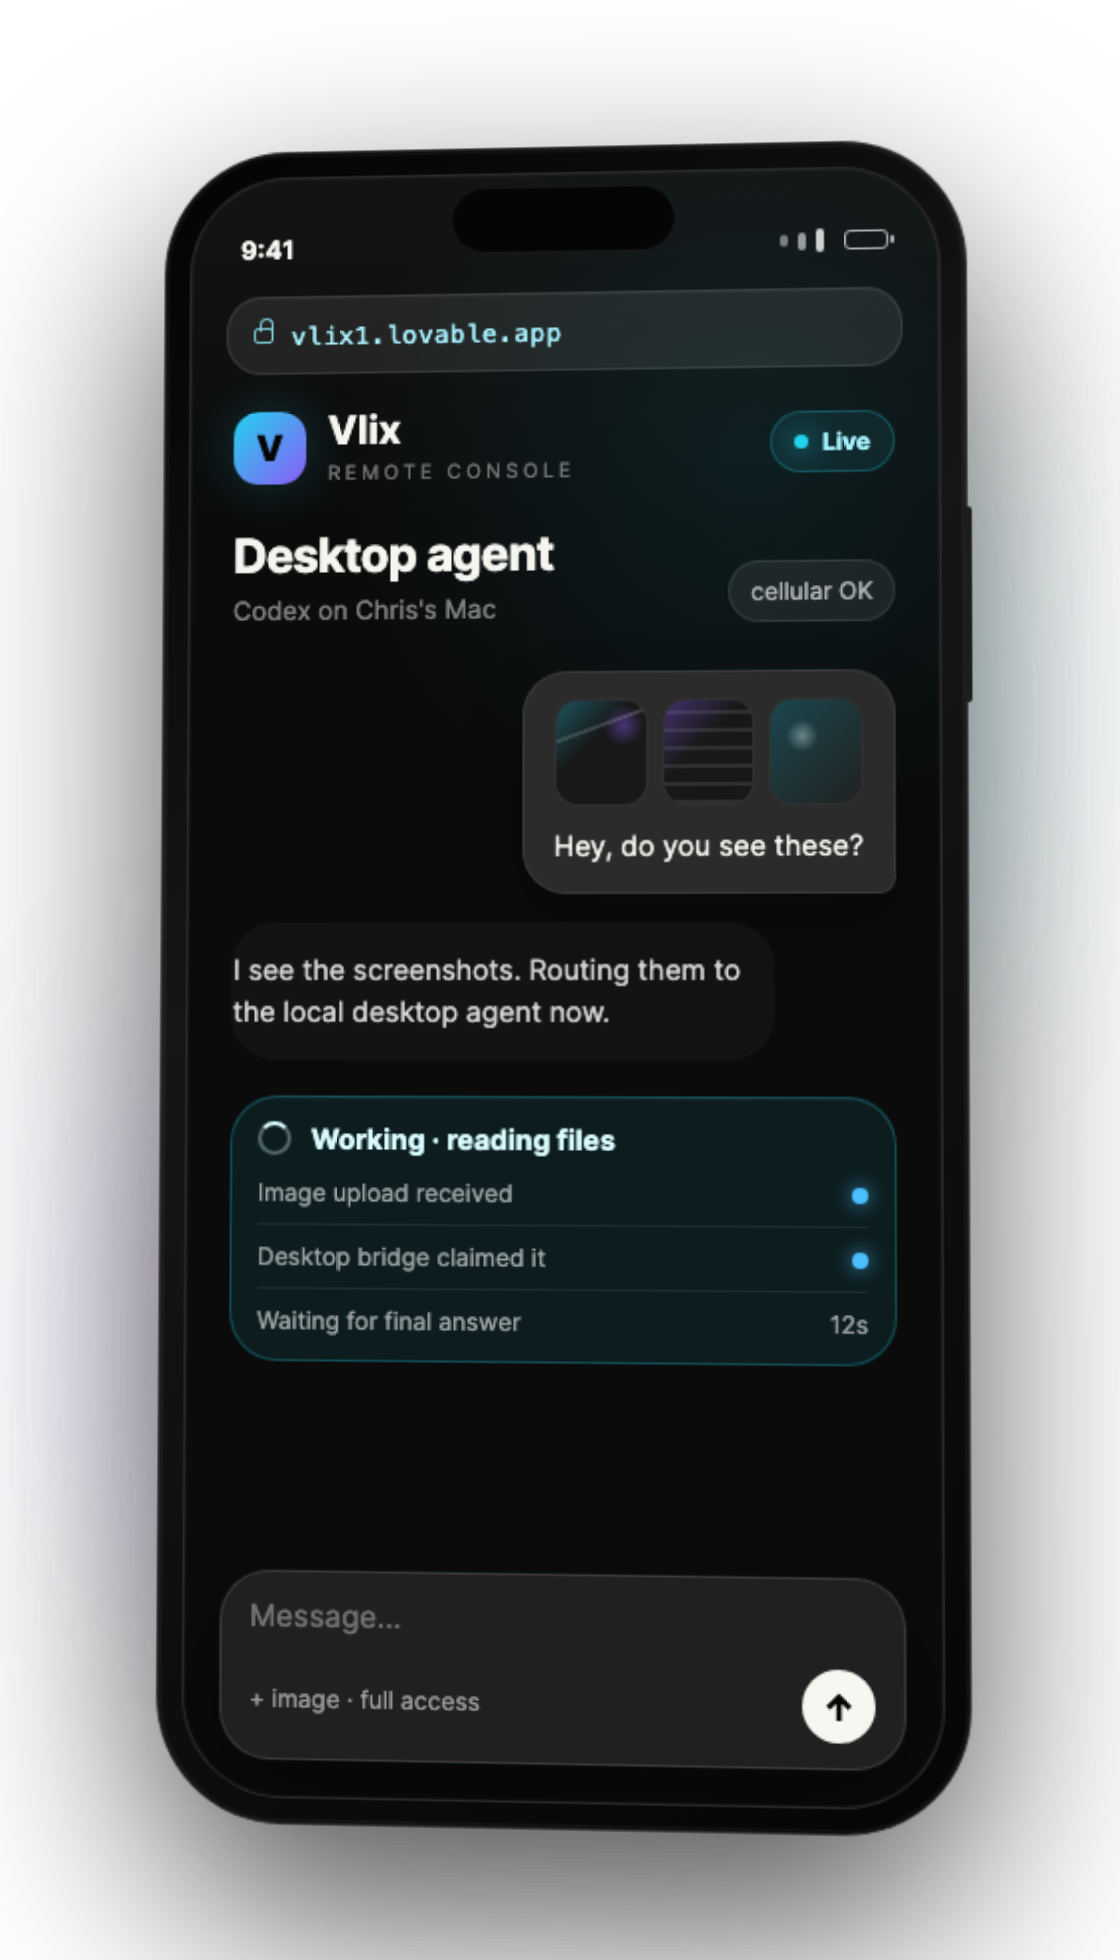
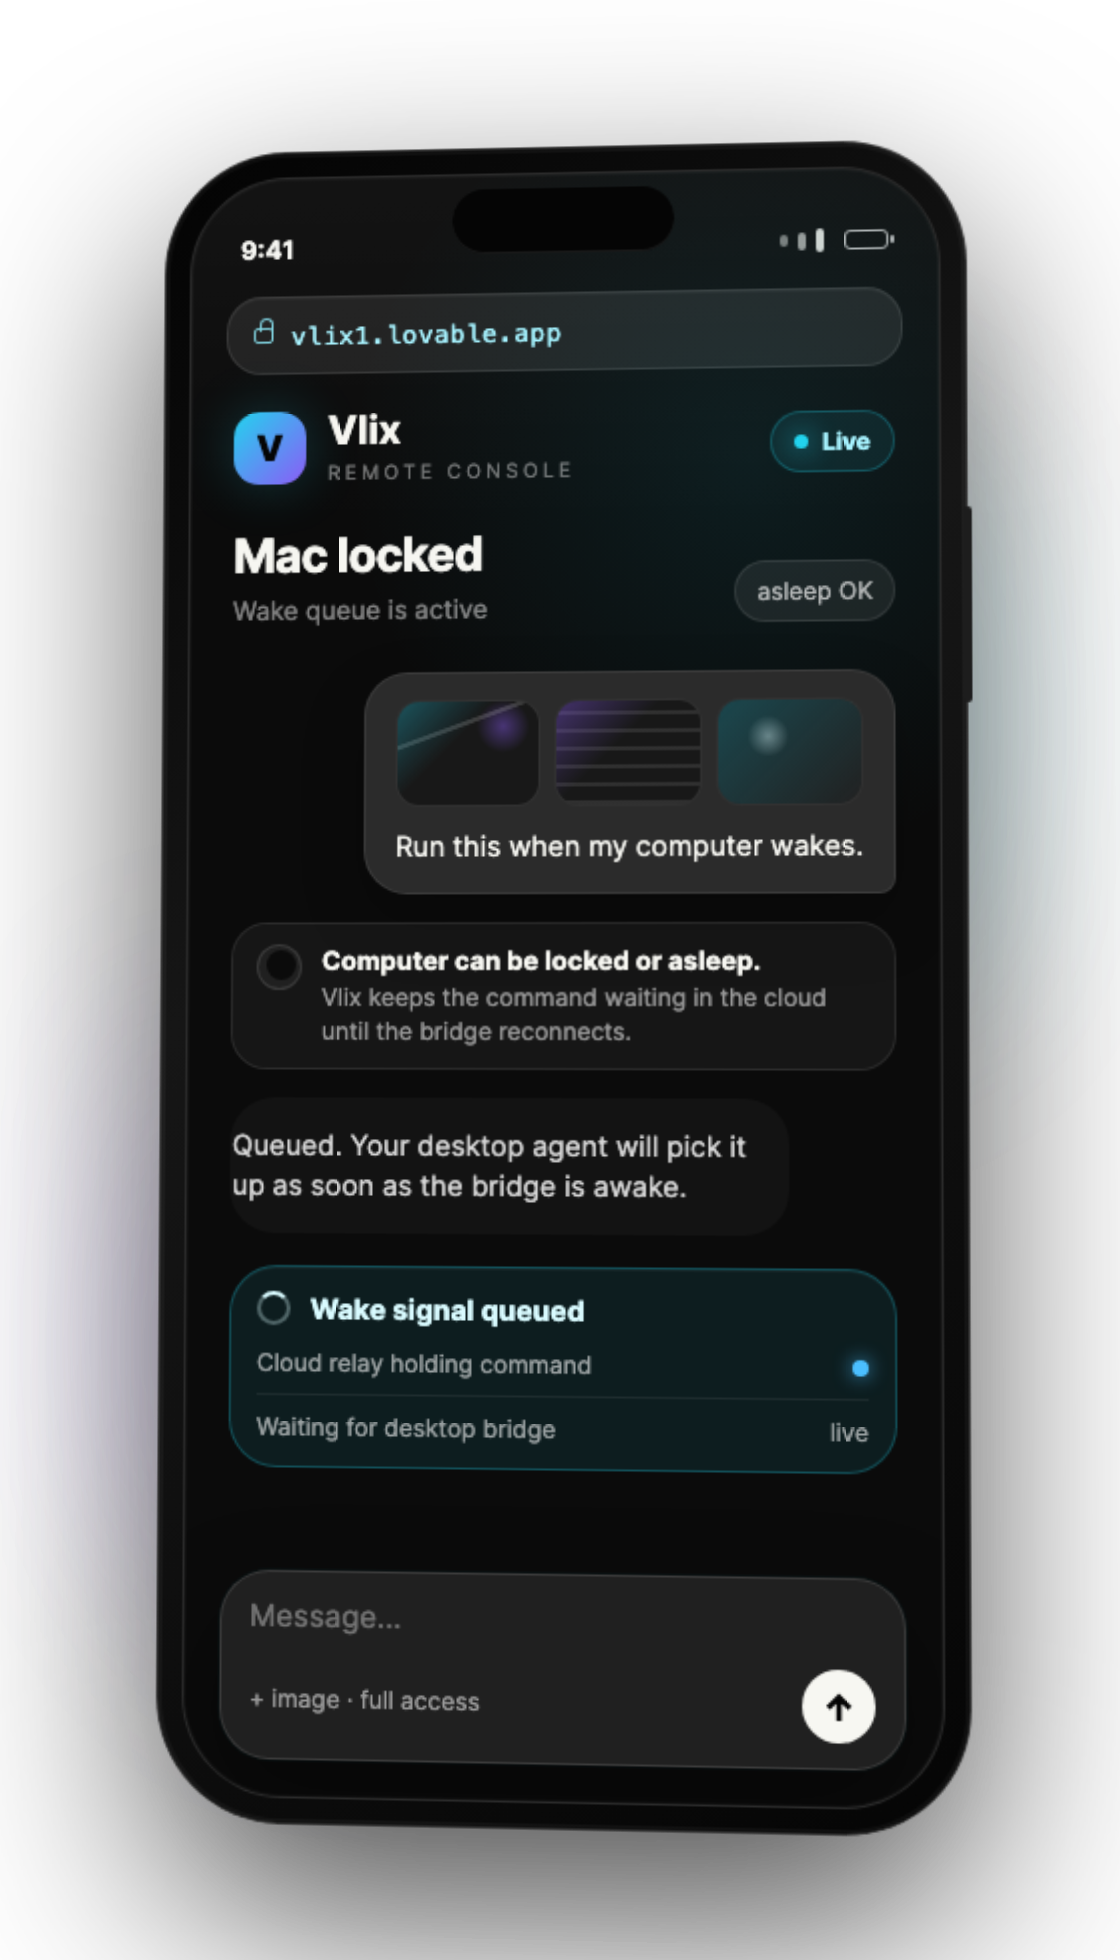
Remove launch email panel and add wake queue copy

Changed region(s): [[0.1875, 0.249, 0.7812, 0.7469], [0.7188, 0.5602, 0.8125, 0.7469], [0.6562, 0.2801, 0.75, 0.3112]]

diff --git a/src/routes/index.tsx b/src/routes/index.tsx
@@ -424,13 +424,7 @@ function Index() {
 
       {!user ? (
         <SignedOut
-          busy={busy}
           copied={copied}
-          email={email}
-          notice={notice}
-          setEmail={setEmail}
-          signInAnonymously={signInAnonymously}
-          signInWithEmail={signInWithEmail}
           copyInstall={() => copyText("install", installCommand)}
         />
       ) : (
@@ -666,22 +660,10 @@ function Index() {
 }
 
 function SignedOut({
-  busy,
   copied,
-  email,
-  notice,
-  setEmail,
-  signInAnonymously,
-  signInWithEmail,
   copyInstall,
 }: {
-  busy: boolean;
   copied: string;
-  email: string;
-  notice: string;
-  setEmail: (email: string) => void;
-  signInAnonymously: () => void;
-  signInWithEmail: () => void;
   copyInstall: () => void;
 }) {
   return (
@@ -767,34 +749,7 @@ function SignedOut({
 
       <RemoteAccessShowcase />
 
-      <div className="mx-auto grid max-w-7xl gap-5 px-5 py-10 sm:px-8 lg:grid-cols-[0.8fr_1.2fr]">
-        <Panel title="Launch Vlix">
-          <div className="space-y-3">
-            <input
-              className="h-12 w-full rounded-2xl border border-white/10 bg-black px-4 text-white outline-none placeholder:text-white/[0.35]"
-              placeholder="Email for magic link"
-              value={email}
-              onChange={(event) => setEmail(event.target.value)}
-            />
-            <Button
-              className="h-12 w-full rounded-2xl bg-white text-black hover:bg-white/90"
-              disabled={busy}
-              onClick={signInWithEmail}
-            >
-              {busy && <Loader2 className="mr-2 h-4 w-4 animate-spin" />}
-              Open console
-            </Button>
-            <Button
-              className="h-12 w-full rounded-2xl bg-white/[0.08] text-white hover:bg-white/[0.12]"
-              disabled={busy}
-              onClick={signInAnonymously}
-            >
-              Try without setup
-            </Button>
-            {notice && <p className="text-sm text-amber-100">{notice}</p>}
-          </div>
-        </Panel>
-
+      <div className="mx-auto max-w-7xl px-4 py-10 sm:px-8">
         <div className="grid gap-4 sm:grid-cols-3">
           <SalesStep
             icon={Terminal}
@@ -821,7 +776,7 @@ function RemoteAccessShowcase() {
   const flow = [
     { icon: Smartphone, label: "Phone", value: "vlix1.lovable.app" },
     { icon: ShieldCheck, label: "Cloud relay", value: "Supabase private account" },
-    { icon: MonitorUp, label: "Desktop bridge", value: "Mac or PC at home" },
+    { icon: MonitorUp, label: "Wake queue", value: "Locked or sleeping Mac/PC" },
     { icon: Bot, label: "Local agent", value: "Claude, Codex, more" },
   ];
 
@@ -885,8 +840,8 @@ function RemoteAccessShowcase() {
             />
             <RemoteRelayRow
               icon={MonitorUp}
-              label="3. Desktop bridge runs it"
-              text="The local bridge sees the queued command, talks to the desktop agent, and syncs the result back."
+              label="3. Wake and run"
+              text="If the computer is locked or asleep, the cloud keeps the command queued until the desktop bridge wakes, reconnects, and runs it."
             />
           </div>
         </div>